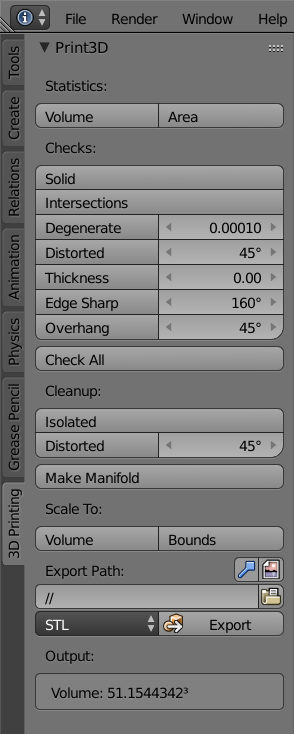
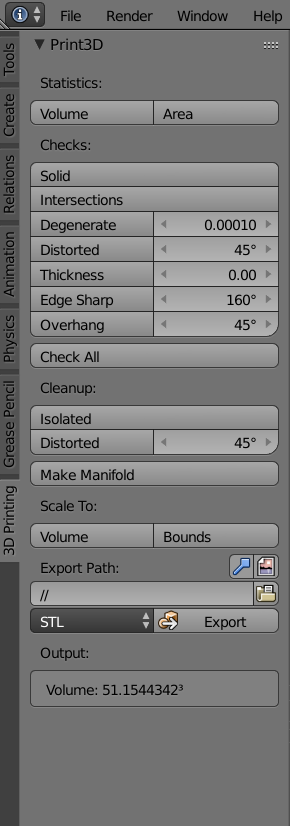
Typo fixed and rearranged images in Readme

diff --git a/README.md b/README.md
@@ -1,11 +1,12 @@
 # 3d-print-toolbox-modified
 Blender addon with utilities for 3d printing. It's based on '3D Print Toolbox' by Campbell Barton. Compared to original '3D Print Toolbox' it's possible to have influence on the clean up settings.
 
-* original '3D Print Toolbox':
-<img src="https://raw.githubusercontent.com/agapas/3d-print-toolbox-modified/master/images/print3dAddon_original.png" width="180" height="600"/>
+Images below display original '3D Print Toolbox' (image on the left) and current modified version (image on the right):
 
-* current version:
-<img src="https://raw.githubusercontent.com/agapas/3d-print-toolbox-modified/master/images/print3dAddon.png" width="180" height="600"/>
+<p align="middle">
+  <img src="https://raw.githubusercontent.com/agapas/3d-print-toolbox-modified/master/images/print3dAddon_original.png" title="original '3D Print Toolbox'" width="180" height="600" />
+  <img src="https://raw.githubusercontent.com/agapas/3d-print-toolbox-modified/master/images/print3dAddon.png" title="current version" width="180" height="600" />
+</p>
 
 ### Added Features
 
@@ -13,13 +14,14 @@ Blender addon with utilities for 3d printing. It's based on '3D Print Toolbox' b
 * more visible 'Check All' button (Checks area)
 * completely changed 'Clean Up' area to have more influence on the clean up process
 * added 'Copy to Clipboard' of the volume in Output area
+* moved Report's Output before Export Path area
 
 ### Plans to add:
 
 * material cost calculations (work in progress)
 * dropdown with options: 'Selected only' and 'All' for Degenerate Dissolve (Clean up area)
 * export selected objects to multiple STL
-* add more description into Readme for added futures
+* add more description into Readme for added features
 
 ### Installing
 
